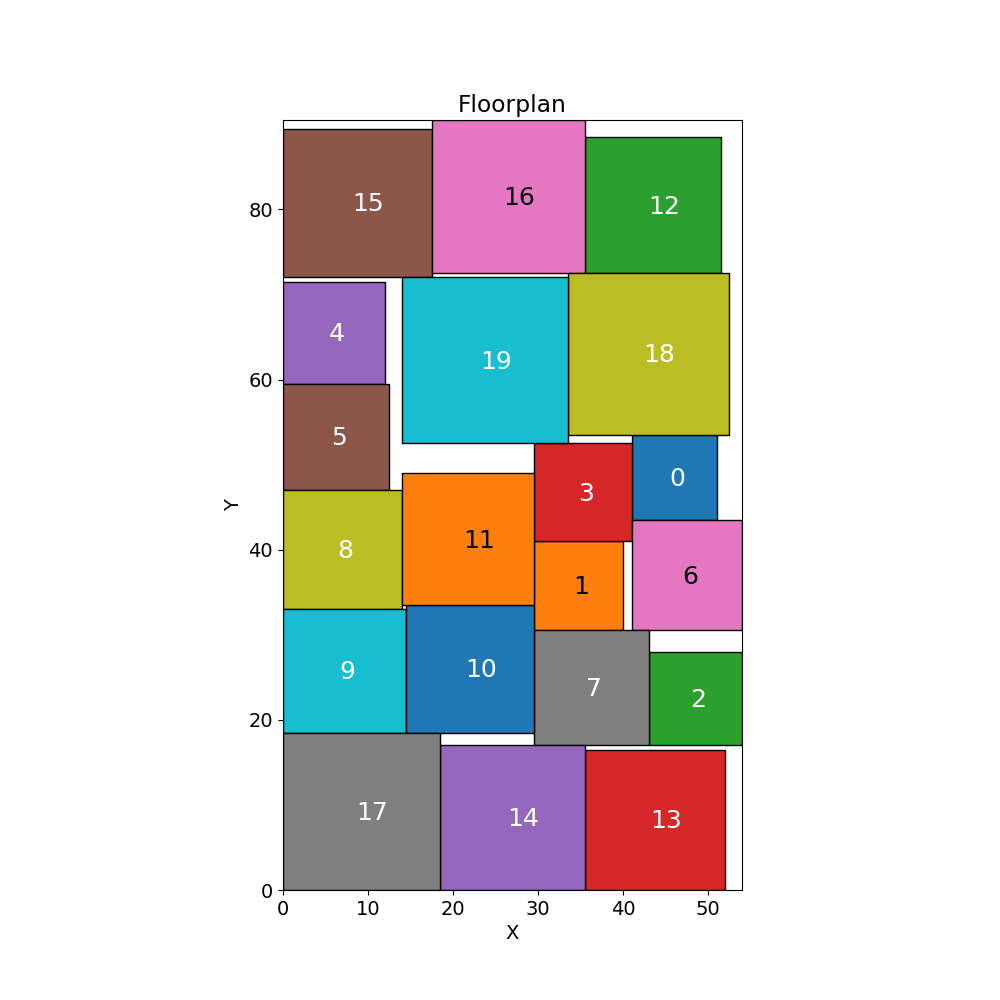
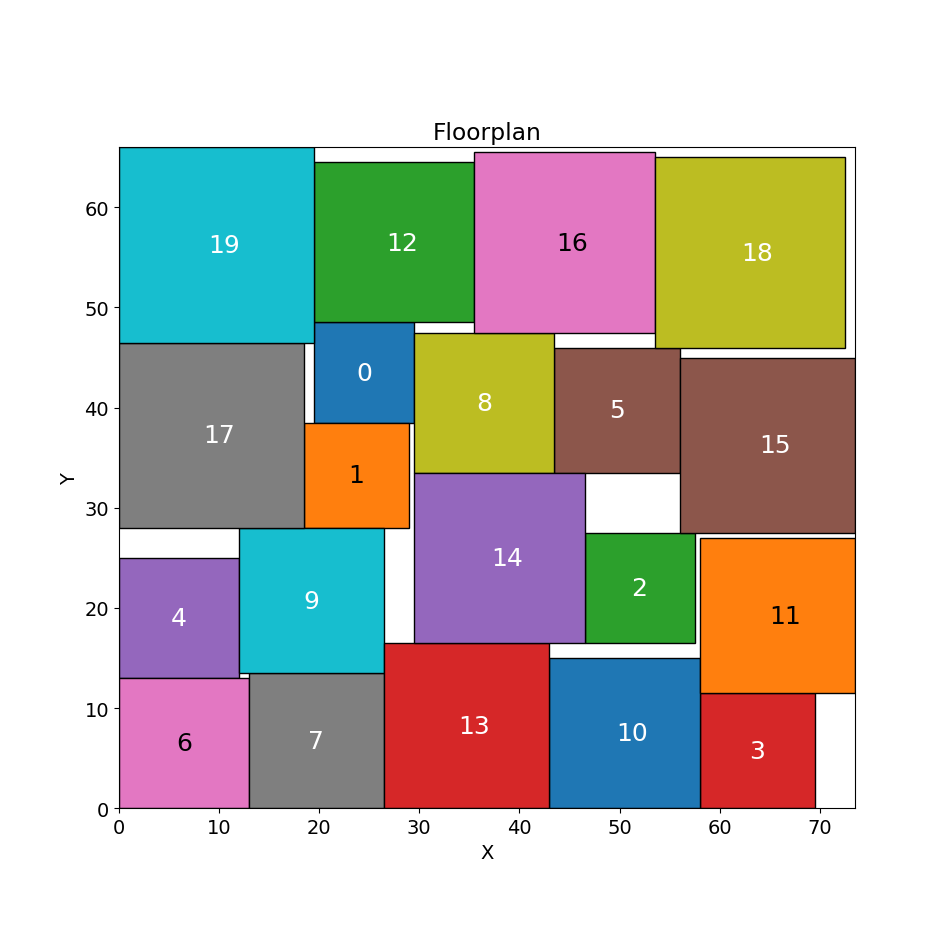
Adjust figsize (#20)
* Adjust figsize

* Update figures

diff --git a/rectangle_packing_solver/visualizer.py b/rectangle_packing_solver/visualizer.py
@@ -37,11 +37,13 @@ class Visualizer:
         bounding_box = solution.floorplan.bounding_box
 
         # Figure settings
-        fig = plt.figure(figsize=(10, 10))
+        bb_width = bounding_box[0]
+        bb_height = bounding_box[1]
+        fig = plt.figure(figsize=(10, 10 * bb_height / bb_width + 0.5))
         ax = plt.axes()
         ax.set_aspect("equal")
-        plt.xlim([0, bounding_box[0]])
-        plt.ylim([0, bounding_box[1]])
+        plt.xlim([0, bb_width])
+        plt.ylim([0, bb_height])
         plt.xlabel("X")
         plt.ylabel("Y")
         plt.title(title)
@@ -62,8 +64,8 @@ class Visualizer:
 
             # Add text label
             centering_offset = 0.011
-            center_x = rectangle["x"] + rectangle["width"] / 2 - bounding_box[0] * centering_offset
-            center_y = rectangle["y"] + rectangle["height"] / 2 - bounding_box[1] * centering_offset
+            center_x = rectangle["x"] + rectangle["width"] / 2 - bb_width * centering_offset
+            center_y = rectangle["y"] + rectangle["height"] / 2 - bb_height * centering_offset
             ax.text(x=center_x, y=center_y, s=rectangle["id"], fontsize=18, color=fontcolor)
 
         # Output

diff --git a/example/example.py b/example/example.py
@@ -41,7 +41,7 @@ def main():
     # We can also give a solution width (and/or height) limit
     solution = rps.Solver().solve(problem=problem, height_limit=6.5)
     print("solution (with limit):", solution)
-    rps.Visualizer().visualize(solution=solution, path="./figs/floorplan_limit.png")
+    rps.Visualizer().visualize(solution=solution, path="./figs/floorplan_example_limit.png")
 
 
 if __name__ == "__main__":
